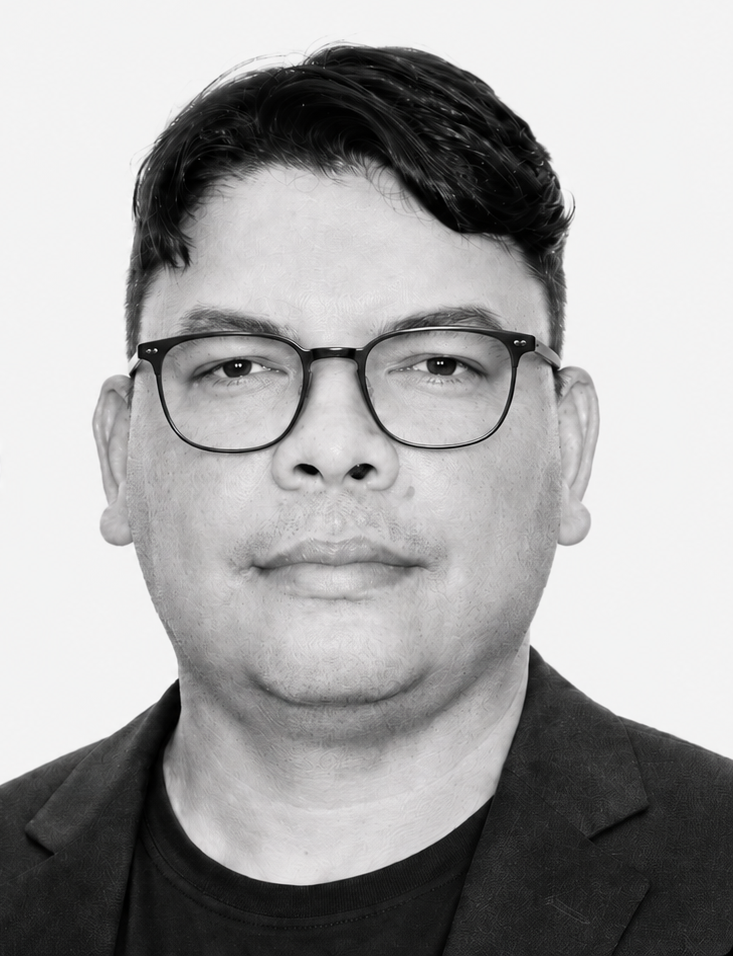
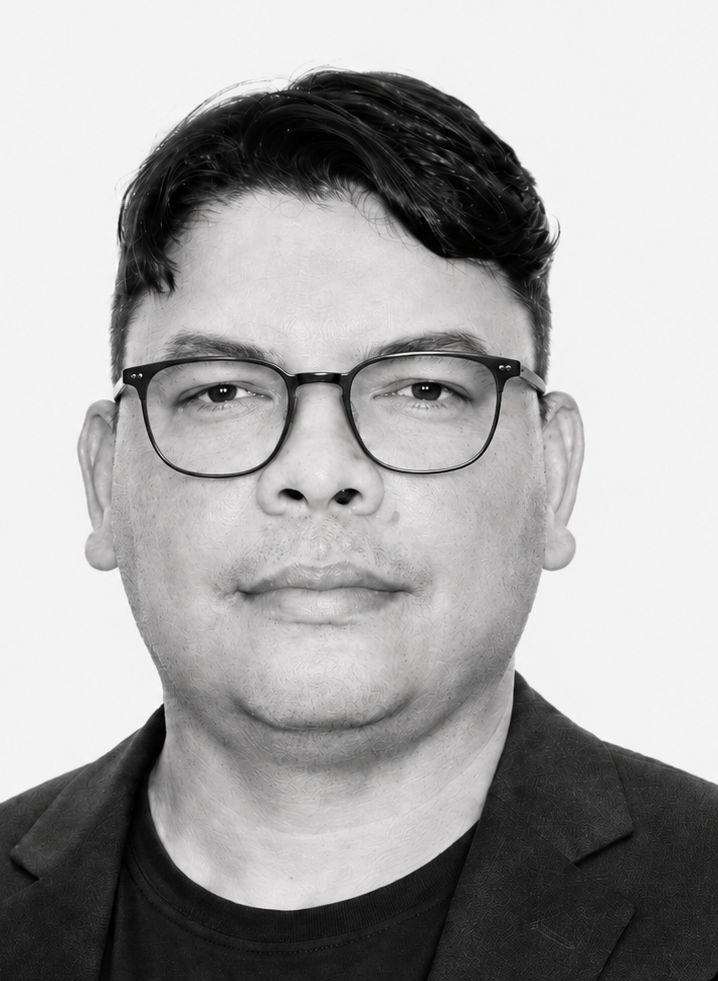
Update portfolio from CV

diff --git a/index.html b/index.html
@@ -10,7 +10,7 @@
   <title>Franklyn Jose Vasquez Marin | Systems Engineer Portfolio</title>
   <style>
     :root {
-      --bg: #f7f7f4;
+      --bg: #f2f3f3;
       --ink: #070707;
       --muted: #666666;
       --soft: #a7a7a0;
@@ -72,15 +72,16 @@
     }
 
     .wrap {
-      width: min(1240px, calc(100% - 72px));
+      width: calc(100% - 96px);
+      max-width: none;
       margin: 0 auto;
     }
 
     .topbar {
-      position: fixed;
+      position: absolute;
       inset: 0 0 auto;
       z-index: 10;
-      background: rgba(247, 247, 244, 0.86);
+      background: rgba(242, 243, 243, 0.86);
       backdrop-filter: blur(18px);
       border-bottom: 1px solid transparent;
     }
@@ -90,7 +91,7 @@
       grid-template-columns: auto 1fr auto;
       align-items: center;
       gap: 36px;
-      min-height: 92px;
+      min-height: 96px;
     }
 
     .mark {
@@ -136,16 +137,16 @@
     .hero {
       position: relative;
       min-height: 100vh;
-      padding: 136px 0 58px;
+      padding: 112px 0 42px;
       isolation: isolate;
     }
 
     .hero-grid {
       display: grid;
-      grid-template-columns: 92px minmax(0, 0.86fr) minmax(420px, 1fr);
-      align-items: end;
-      gap: 36px;
-      min-height: calc(100vh - 194px);
+      grid-template-columns: 88px minmax(560px, 760px);
+      align-items: center;
+      gap: 44px;
+      min-height: calc(100vh - 154px);
     }
 
     .side-rail {
@@ -164,7 +165,7 @@
 
     .side-rail .line {
       width: 1px;
-      min-height: 180px;
+      min-height: 250px;
       background: var(--soft);
     }
 
@@ -175,15 +176,17 @@
     }
 
     .hero-copy {
-      padding-bottom: 24px;
+      max-width: 760px;
+      padding-top: 28px;
+      padding-bottom: 0;
       z-index: 2;
     }
 
     .metrics {
       display: flex;
-      flex-wrap: wrap;
-      gap: 46px;
-      margin-bottom: 116px;
+      flex-wrap: nowrap;
+      gap: clamp(34px, 4.8vw, 76px);
+      margin-bottom: clamp(74px, 9vh, 120px);
     }
 
     .metric strong {
@@ -216,7 +219,7 @@
     }
 
     h1 {
-      font-size: 11rem;
+      font-size: clamp(10rem, 13vw, 16rem);
       font-weight: 300;
     }
 
@@ -227,7 +230,7 @@
     }
 
     .hero-summary {
-      max-width: 660px;
+      max-width: 620px;
       margin: 28px 0 0;
       color: #2f2f2d;
       font-size: 1.04rem;
@@ -272,20 +275,24 @@
     }
 
     .hero-portrait {
-      align-self: end;
-      justify-self: end;
-      width: min(50vw, 720px);
-      min-width: 420px;
-      z-index: 1;
+      position: absolute;
+      right: 0;
+      top: 0;
+      bottom: 0;
+      width: min(56vw, 980px);
+      min-width: 720px;
+      height: 100vh;
+      z-index: 0;
+      margin: 0;
+      pointer-events: none;
     }
 
     .hero-portrait img {
       width: 100%;
-      height: min(74vh, 790px);
-      object-fit: cover;
-      object-position: center top;
-      filter: grayscale(1) contrast(1.04);
-      border-radius: 0 0 var(--radius) var(--radius);
+      height: 100%;
+      object-fit: contain;
+      object-position: right bottom;
+      border-radius: 0;
     }
 
     .scroll-hint {
@@ -553,14 +560,20 @@
       }
 
       .hero-portrait {
+        position: relative;
+        right: auto;
+        bottom: auto;
         justify-self: stretch;
         width: 100%;
+        height: auto;
         min-width: 0;
+        z-index: 1;
+        margin-top: 36px;
       }
 
       .hero-portrait img {
         height: 620px;
-        object-position: center top;
+        object-position: center bottom;
       }
 
       .scroll-hint {
@@ -735,10 +748,6 @@
               <strong>4</strong>
               <span>Personal projects</span>
             </div>
-            <div class="metric">
-              <strong>6</strong>
-              <span>Technical certifications</span>
-            </div>
           </div>
 
           <p class="eyebrow">Longueuil, Quebec, Canada</p>
@@ -758,7 +767,7 @@
         </div>
 
         <figure class="hero-portrait">
-          <img src="assets/franklyn-editorial-portrait.png" alt="Black and white portrait of Franklyn Jose Vasquez Marin" />
+          <img src="assets/franklyn-hero-integrated.png" alt="Black and white portrait of Franklyn Jose Vasquez Marin" />
         </figure>
       </div>
       <a class="scroll-hint" href="#about">Scroll down ↓</a>